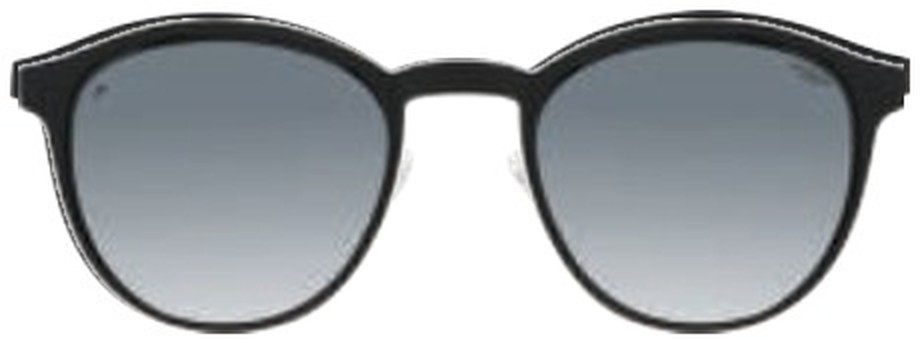
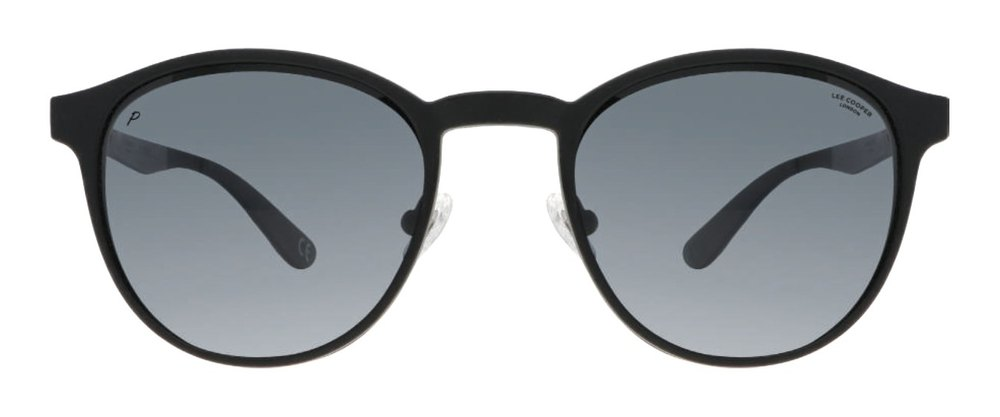
Clip-on sayfalarında optik/clip-on karşılaştırma; 53 hizalanmış görsel çifti
Claude-Session: https://claude.ai/code/session_01KpREfrCCEjDD4VGaARoeKt

Changed region(s): [[0.0, 0.0294, 1.0, 1.0]]

diff --git a/tema/app.js b/tema/app.js
@@ -411,6 +411,14 @@
     // ilgili modeller + breadcrumb
     ready().then(function () {
       var me = state.models.filter(function (m) { return m.code === code; })[0];
+      // clip-on modellerde optik / clip-on karşılaştırma kaydırıcısı
+      var cmpSec = $('#model-cmp');
+      if (cmpSec && me && me.category === 'Clip-On') {
+        var el = $('.cmp', cmpSec);
+        el.setAttribute('data-left', CDN + 'img/cmp/' + me.code + '-optik.jpg'); el.setAttribute('data-right', CDN + 'img/cmp/' + me.code + '-clipon.jpg');
+        el.setAttribute('data-left-sub', 'Numaralı cam · ' + (me.variants[0] ? me.variants[0].code : '')); el.setAttribute('data-right-sub', isPolar(me) ? 'Mıknatıslı polarize güneş camı' : 'Mıknatıslı güneş camı');
+        cmpSec.style.display = ''; initCompare();
+      }
       var rel = $('#related-grid'); if (!rel) return;
       if (!me) { rel.parentNode.style.display = 'none'; return; }
       var pool = state.models.filter(function (m) { return m.code !== me.code && m.brand_slug === me.brand_slug; });
@@ -540,8 +548,8 @@
   /* ---------- karşılaştırma kaydırıcısı ---------- */
   function initCompare() {
     $$('.cmp[data-left][data-right]').forEach(function (el) {
-      if (el.getAttribute('data-ready')) return; el.setAttribute('data-ready', '1');
       var L = el.getAttribute('data-left'), R = el.getAttribute('data-right');
+      if (!L || !R || el.getAttribute('data-ready')) return; el.setAttribute('data-ready', '1');
       var ll = el.getAttribute('data-left-label') || 'Optik', rl = el.getAttribute('data-right-label') || 'Clip-On';
       var ls = el.getAttribute('data-left-sub') || '', rs = el.getAttribute('data-right-sub') || '';
       var pos = parseFloat(el.getAttribute('data-start') || '50');

diff --git a/tema/gen_cmp.py b/tema/gen_cmp.py
@@ -1,0 +1,40 @@
+#!/usr/bin/env python3
+"""Clip-on modeller için karşılaştırma çifti üretir: img/cmp/KOD-optik.jpg (clip'siz, ilk renk) ve KOD-clipon.jpg (katalogdaki clip takılı ana görsel).
+İki görsel gözlük sınır kutusuna göre hizalanır; aynı tuvale, aynı ölçekte basılır."""
+import json, os
+from PIL import Image, ImageChops
+
+ms = json.load(open('data/models.json', encoding='utf-8'))['models']
+os.makedirs('repo/img/cmp', exist_ok=True)
+W = 1000
+def bbox(im, thr=242):
+    g = im.convert('L').point(lambda p: 255 if p < thr else 0)
+    return g.getbbox()
+def place(im, bb, scale, canvas_w, canvas_h, cx, cy):
+    w = int(im.width * scale); h = int(im.height * scale)
+    im2 = im.resize((w, h), Image.LANCZOS)
+    bx = (bb[0] * scale, bb[1] * scale, bb[2] * scale, bb[3] * scale)
+    bcx = (bx[0] + bx[2]) / 2; bcy = (bx[1] + bx[3]) / 2
+    out = Image.new('RGB', (canvas_w, canvas_h), 'white')
+    out.paste(im2, (int(round(cx - bcx)), int(round(cy - bcy))))
+    return out
+n = 0
+for m in ms:
+    if m['category'] != 'Clip-On' or not m['variants']:
+        continue
+    d = f"repo/img/{m['brand_slug']}/"
+    R = Image.open(d + m['images']['front']).convert('RGB')
+    L = Image.open(d + m['variants'][0]['images']['front']).convert('RGB')
+    bR, bL = bbox(R), bbox(L)
+    if not bR or not bL:
+        print('bbox yok', m['code']); continue
+    wR = bR[2] - bR[0]; wL = bL[2] - bL[0]
+    sR = (W * 0.9) / wR                 # clip takılı görsel tuvalin %90'ı
+    sL = sR * wR / wL                   # optik görsel aynı genişliğe
+    hR = (bR[3] - bR[1]) * sR; hL = (bL[3] - bL[1]) * sL
+    H = int(max(hR, hL) * 1.3)
+    cx, cy = W / 2, H / 2
+    place(L, bL, sL, W, H, cx, cy).save(f"repo/img/cmp/{m['code']}-optik.jpg", quality=86)
+    place(R, bR, sR, W, H, cx, cy).save(f"repo/img/cmp/{m['code']}-clipon.jpg", quality=86)
+    n += 1
+print(n, 'çift üretildi')

diff --git a/tema/build.py b/tema/build.py
@@ -34,7 +34,9 @@ def slugify(s):
     return re.sub(r'[^a-z0-9]+', '-', s.lower().replace('ç', 'c').replace('ğ', 'g').replace('ı', 'i').replace('ö', 'o').replace('ş', 's').replace('ü', 'u')).strip('-')
 
 def evaluate(expr, ctx):
-    expr = expr.strip()
+    expr = html.unescape(expr.strip())
+    if expr.startswith('(') and expr.endswith(')'):
+        expr = expr[1:-1].strip()
     # birleştirme
     if ' + ' in expr:
         return ''.join(str(evaluate(p, ctx)) for p in expr.split(' + '))
@@ -42,6 +44,9 @@ def evaluate(expr, ctx):
         return expr[1:-1]
     if ' and ' in expr:
         return all(evaluate(p, ctx) for p in expr.split(' and '))
+    m = re.match(r'(data:\S+)\s+any\s*\(\s*\w+\s*=>\s*\w+\.name\s*==\s*"([^"]+)"\s*\)', expr)
+    if m:
+        return any(l.get('name') == m.group(2) for l in (evaluate(m.group(1), ctx) or []))
     m = re.match(r'(data:\S+)\s*(&lt;|<|lt)\s*(\d+)', expr)
     if m:
         return int(evaluate(m.group(1), ctx) or 0) < int(m.group(3))
